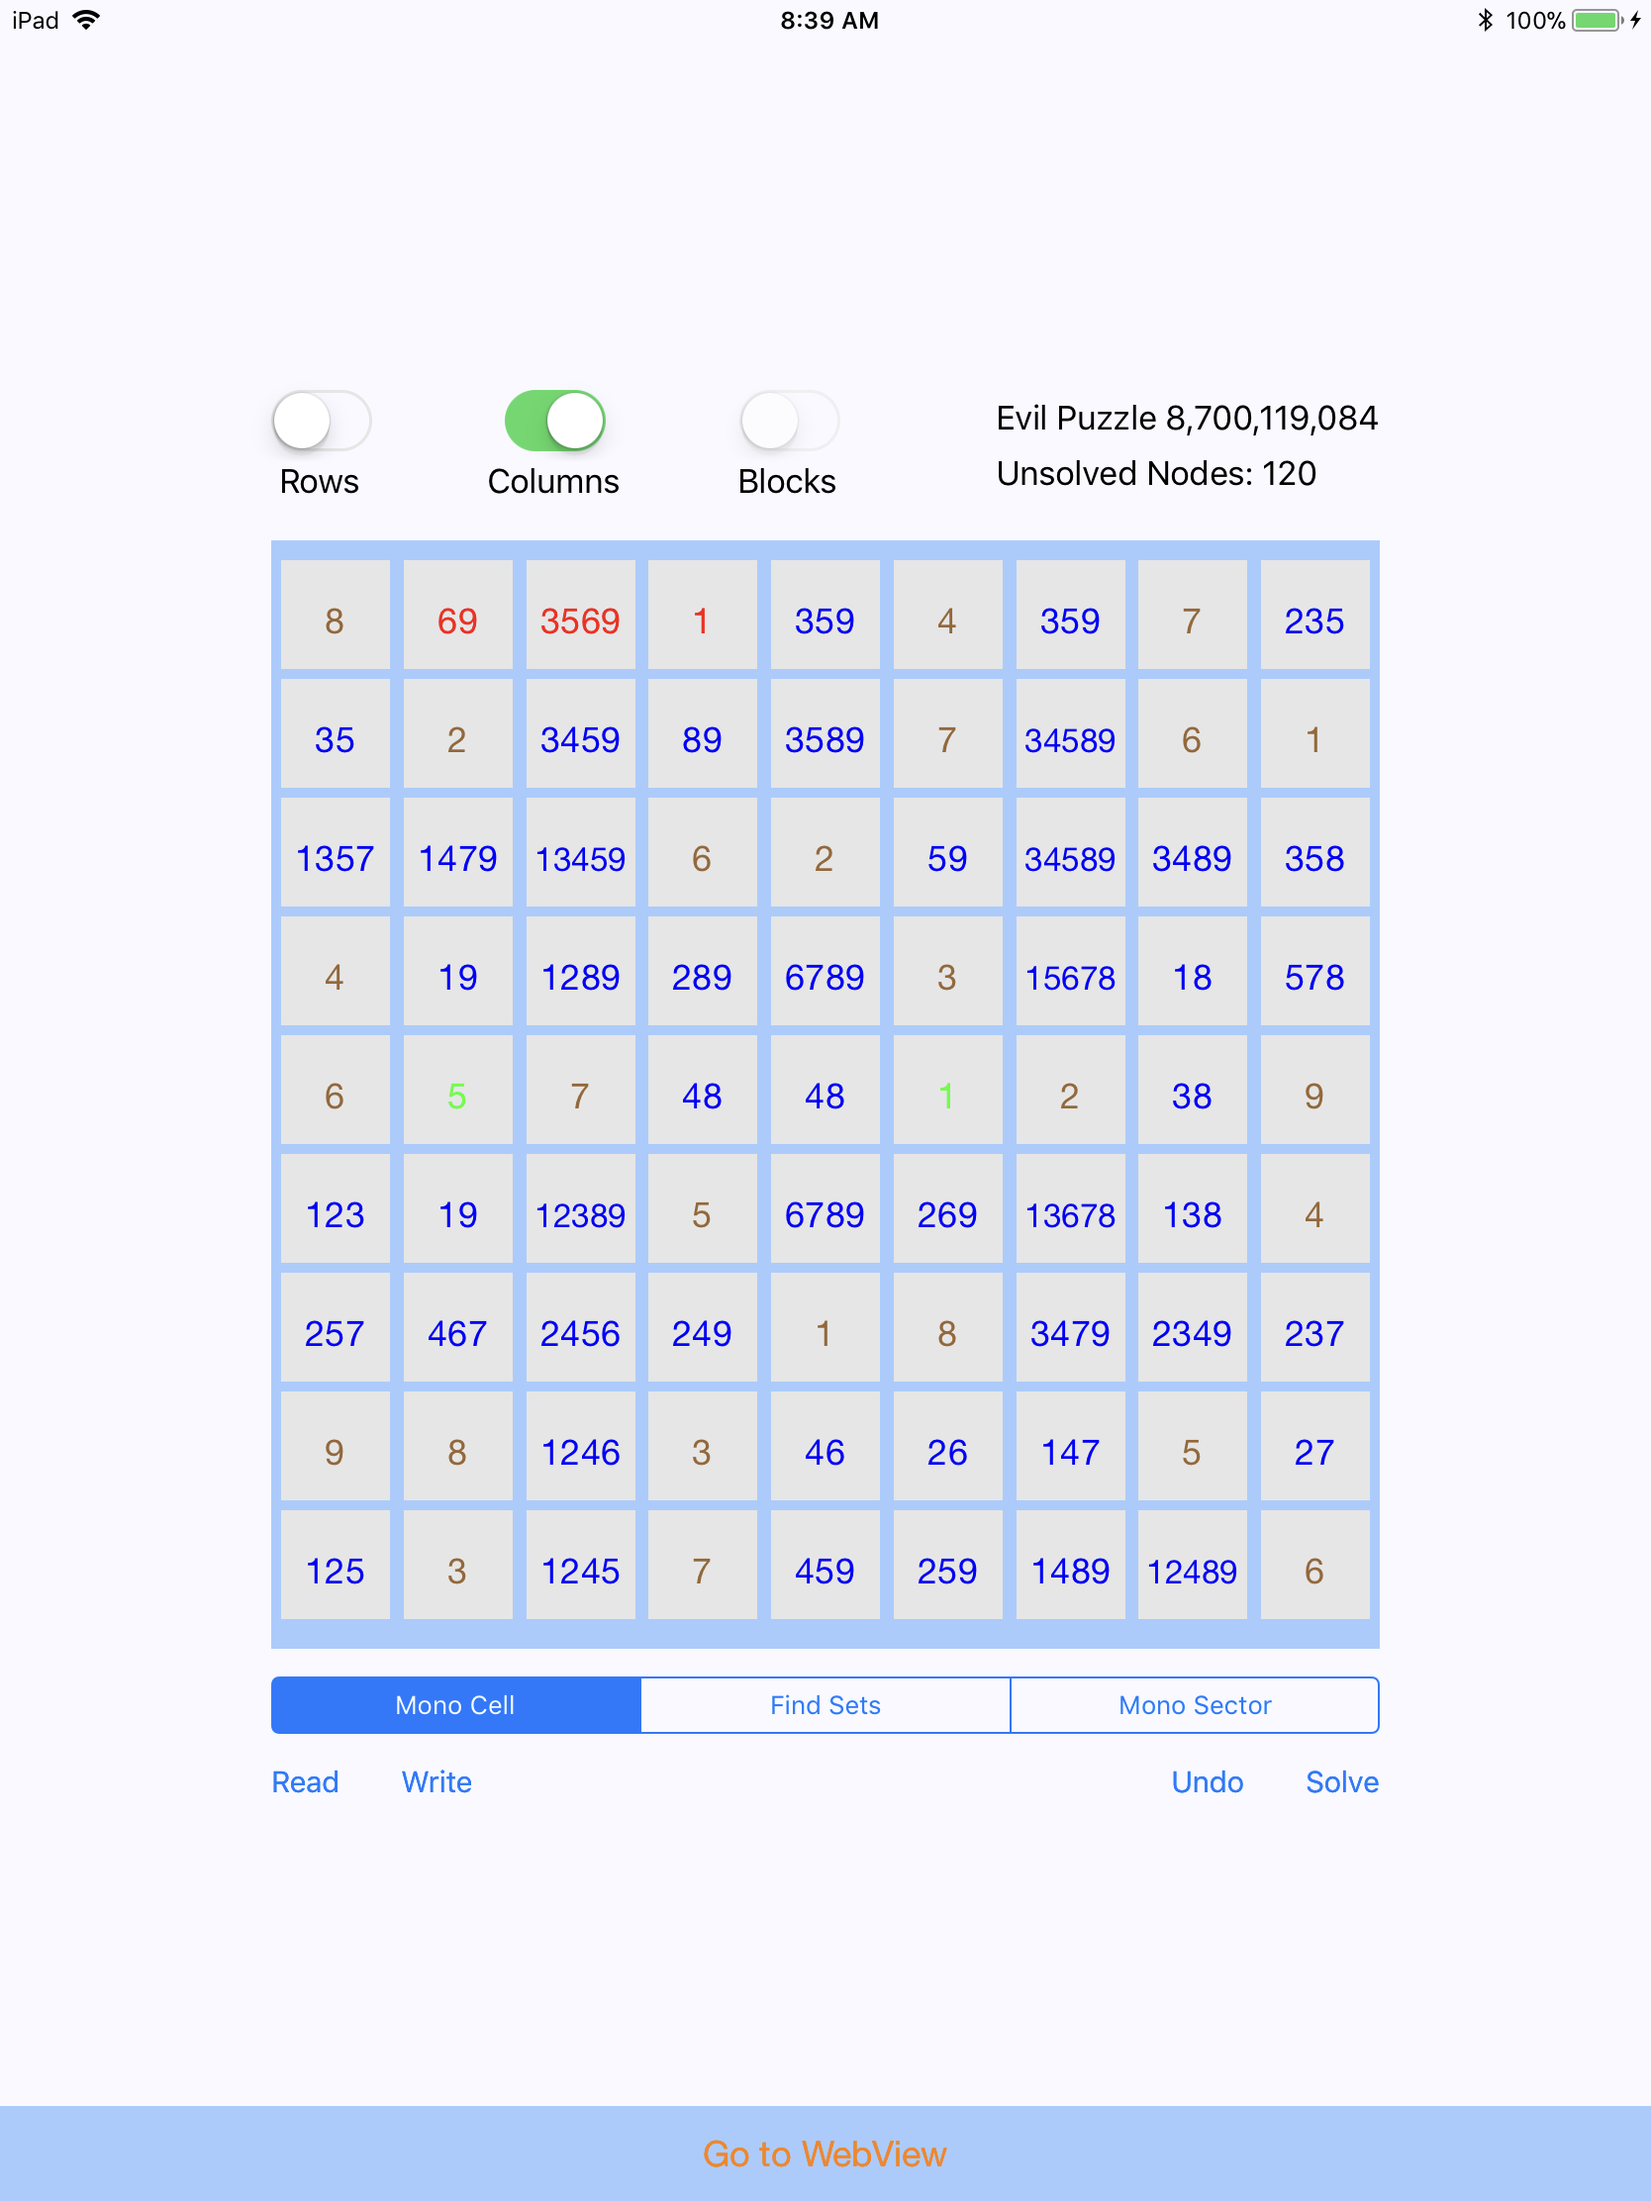
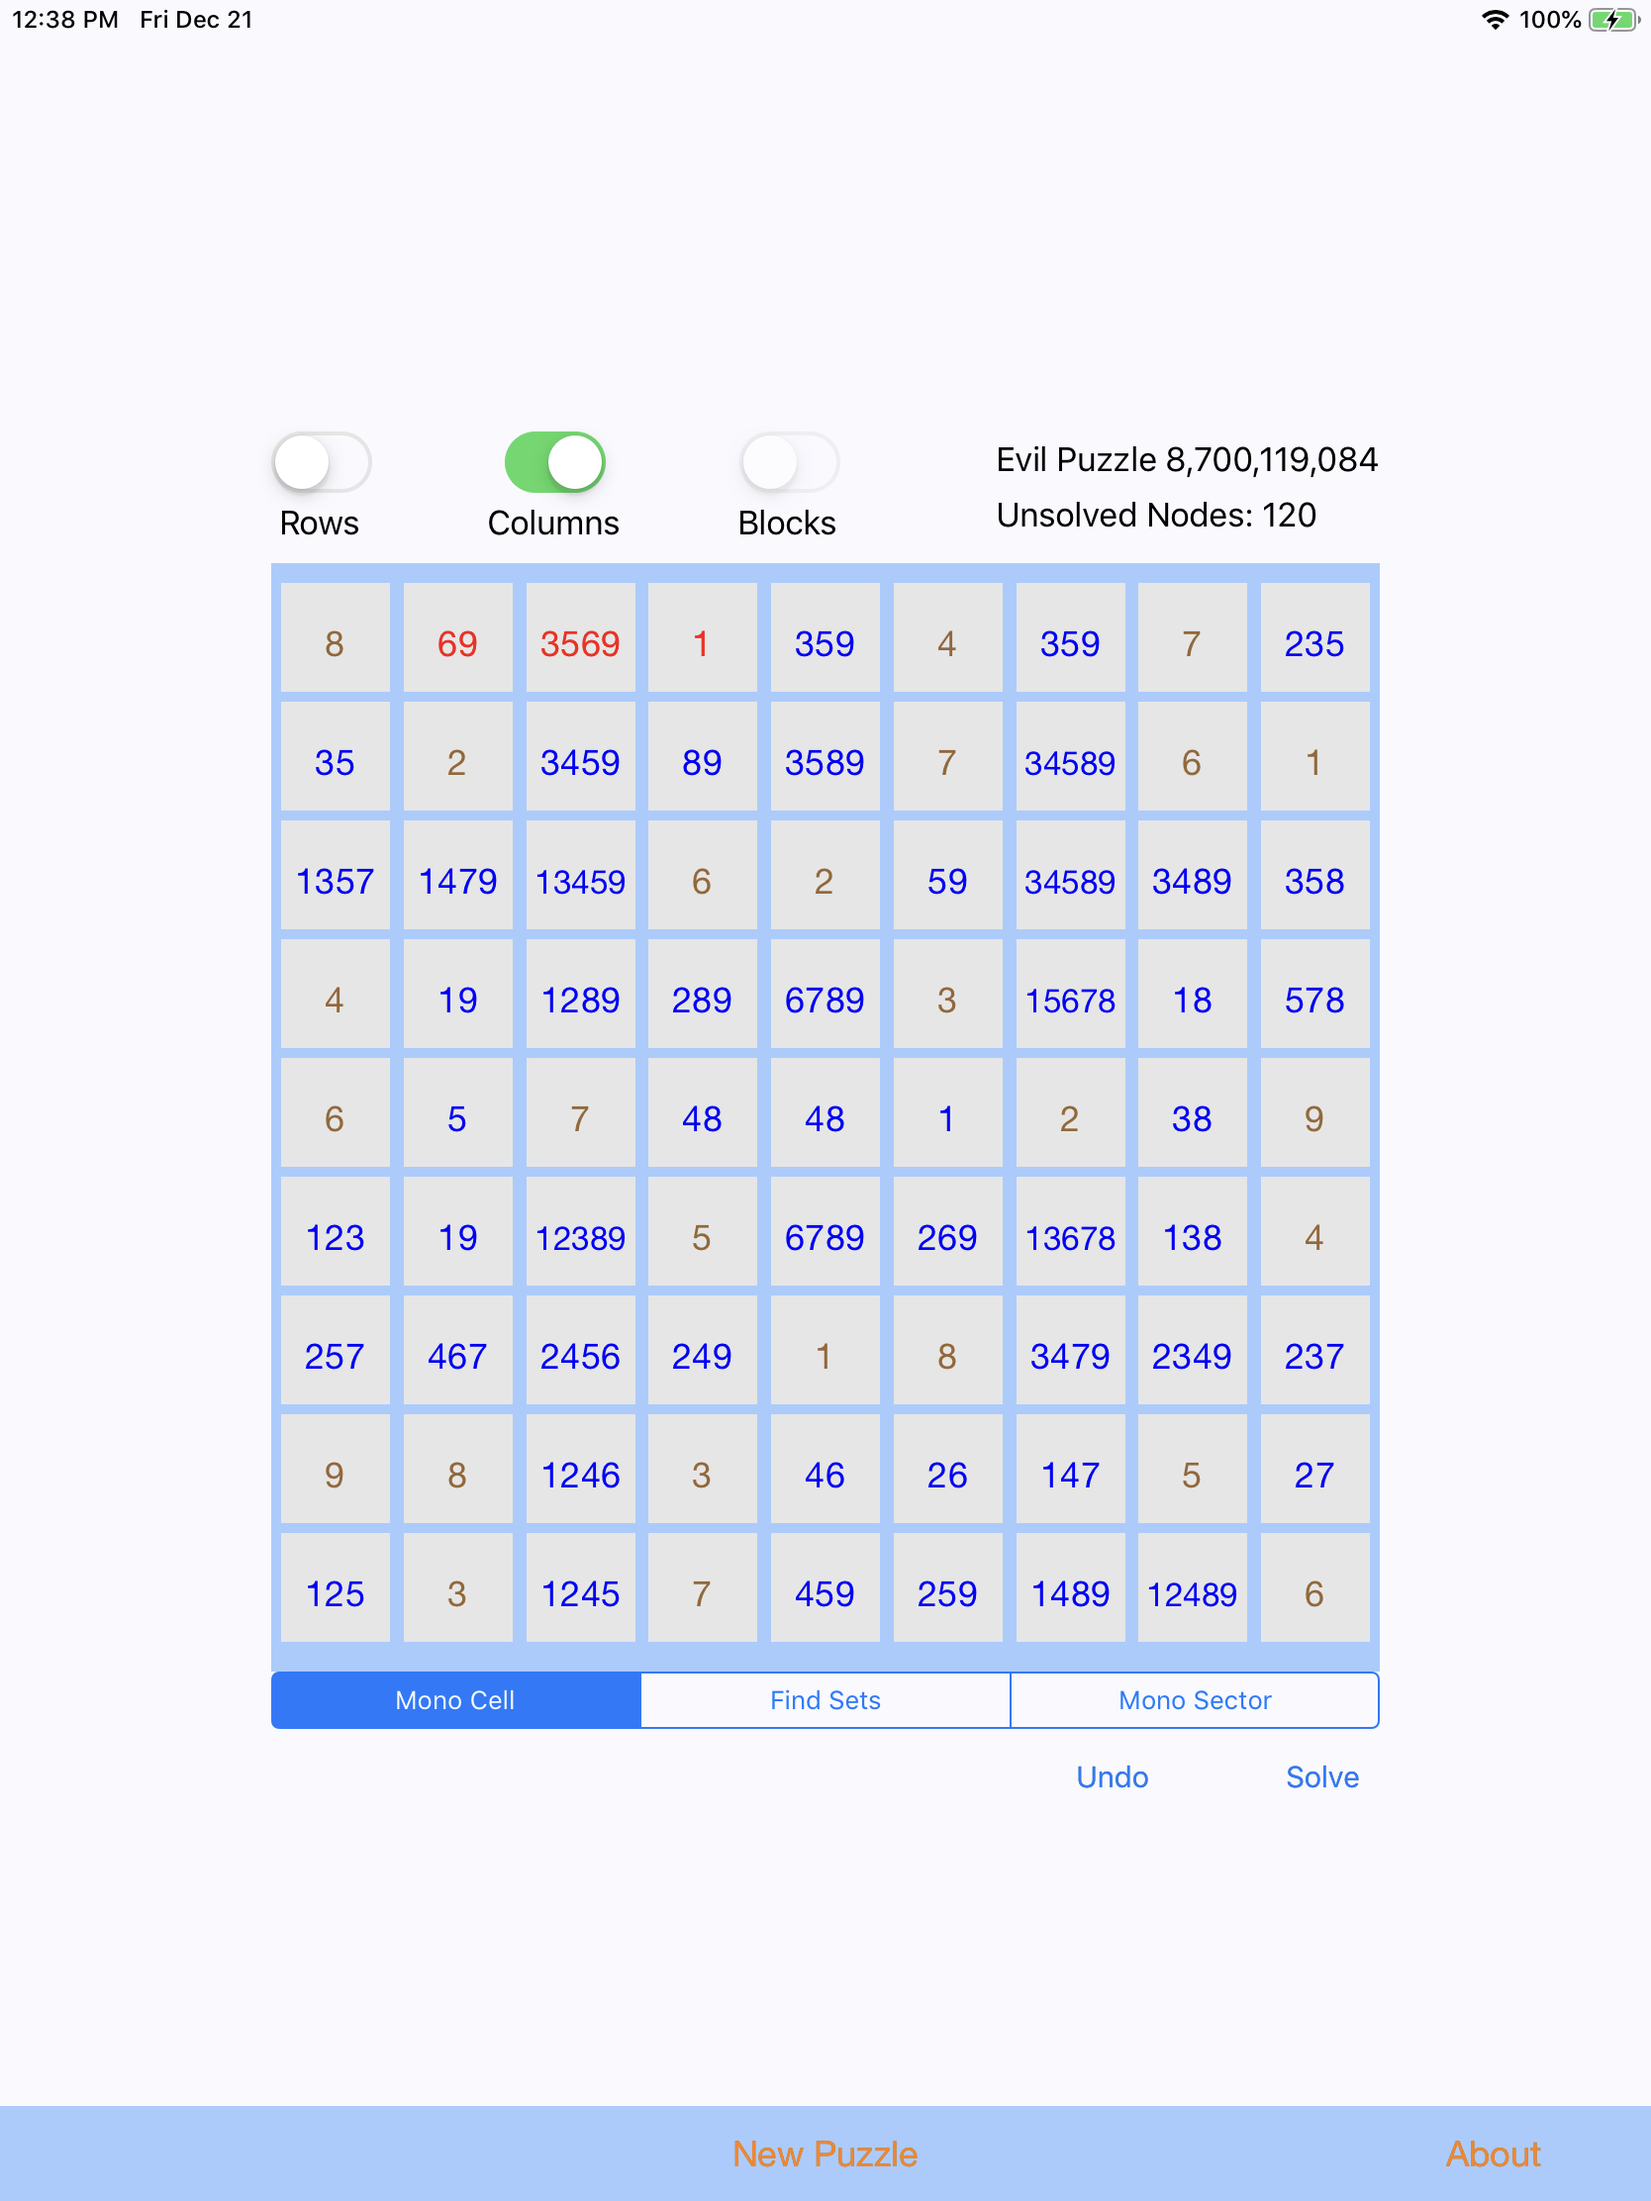
Fixed cell state bug for cells with one value

diff --git a/SudokuSolverCommon/HLSolver.swift b/SudokuSolverCommon/HLSolver.swift
@@ -26,7 +26,7 @@ enum HLAlgorithmMode: Int
 
 class HLSolver: NSObject {
     let url = URL(string: "https://nine.websudoku.com/?level=4&amp")!
-//    let url = URL(string: "https://nine.websudoku.com/?level=4&set_id=8663783213")!
+ //   let url = URL(string: "https://nine.websudoku.com/?level=4&set_id=8700119084")!
     let kDataKey    = "Data"
     let kStatusKey  = "Status"
     let kNameKey    = "Name"
@@ -371,6 +371,15 @@ class HLSolver: NSObject {
             if data.count != data2.count        {
                 status = .changedStatus
                 dataSet[index] = (data, status) }
+        }
+        
+        //  check for cells only have 1 value after prunning and mark them solved
+        for index in 0..<dataSet.kCellCount {
+            let (data, status) = dataSet[index]
+            
+            if data.count == 1 && status == .unsolvedStatus   {
+                dataSet[index] = (data, .solvedStatus)
+            }
         }
     }
     

diff --git a/Sudoku Solver/Sudoku Solver/HLSolverViewController.swift b/Sudoku Solver/Sudoku Solver/HLSolverViewController.swift
@@ -55,7 +55,8 @@ class HLSolverViewController: UIViewController, UICollectionViewDataSource, WKNa
         hlWebView = WKWebView(frame:self.view.bounds)
         hlWebView.navigationDelegate = self
         hlWebView.load(request)
-    }
+        solveButton.isEnabled = false
+   }
     
     
     func webView(_ webView: WKWebView, didFinish navigation: WKNavigation!) {
@@ -69,6 +70,7 @@ class HLSolverViewController: UIViewController, UICollectionViewDataSource, WKNa
         //           print( "puzzleString: \(puzzleString)" )
                     self.updateDisplay()
                     self.undoButton.isEnabled = false
+                    self.solveButton.isEnabled = true
                 }
         })
     }
